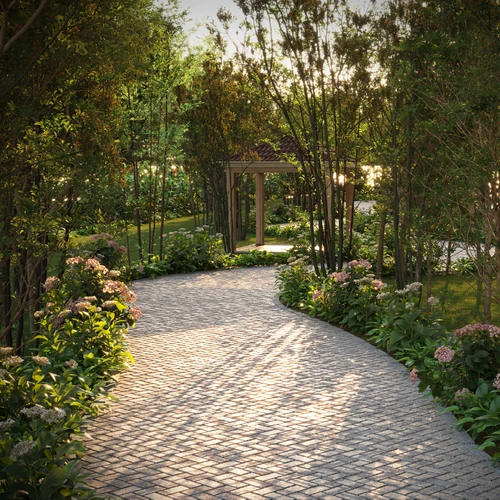
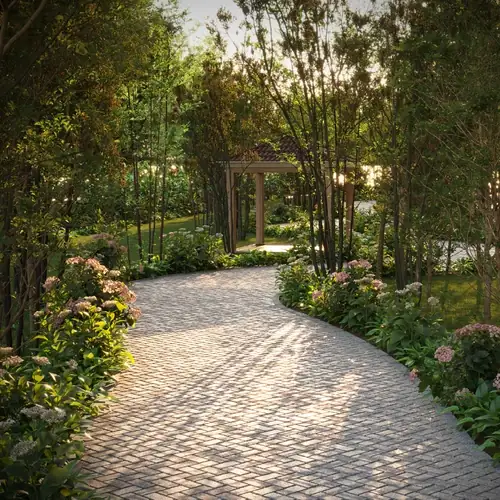
Optimise images and first-load weight
- Recompress the amenity/gallery photos, master plan and floor layouts
- Replace the PNG Sobha logos with smaller WebP versions
- Load the lighter master plan while it is locked; full size only after unlock
- Lazy-load the popup image and trim unused font weights
- Remove six images the page no longer references

Images folder: 2.9 MB -> 1.4 MB. First screen: about 245 KB across 7 files.

Claude-Session: https://claude.ai/code/session_01UZNGptRzZe7iGZ9XxCYRAP

diff --git a/index.html b/index.html
@@ -10,12 +10,12 @@
 <meta property="og:type" content="website">
 <meta property="og:title" content="SOBHA ParQ City, Bengaluru — 2 to 4 BHK Residences on 50 Acres">
 <meta property="og:description" content="A quest for discovery, a journey towards extraordinary living. Integrated township, 3,184 homes, 2 – 4 BHK, from ₹2.25 Cr*. EOI window open.">
-<meta property="og:image" content="assets/img/hero-1.webp">
+<meta property="og:image" content="assets/img/rep-club.webp">
 <meta name="twitter:card" content="summary_large_image">
 
 <link rel="preconnect" href="https://fonts.googleapis.com">
 <link rel="preconnect" href="https://fonts.gstatic.com" crossorigin>
-<link href="https://fonts.googleapis.com/css2?family=Figtree:wght@300;400;500;600;700&family=Source+Serif+4:ital,opsz,wght@0,8..60,400;0,8..60,500;0,8..60,600;1,8..60,400;1,8..60,500&display=swap" rel="stylesheet">
+<link href="https://fonts.googleapis.com/css2?family=Figtree:wght@300;400;500;600;700&family=Source+Serif+4:ital,opsz,wght@0,8..60,400;0,8..60,600;1,8..60,400&display=swap" rel="stylesheet">
 <link rel="preload" as="image" href="assets/img/rep-club.webp">
 <link rel="stylesheet" href="assets/css/styles.css">
 
@@ -80,7 +80,7 @@
 <header class="site-header" id="top">
   <div class="wrap header-inner">
     <a class="brand brand-lockup" href="#top" aria-label="Sobha, authorised channel partner, back to top">
-      <img class="brand-logo" src="assets/img/sobha-logo.png" width="1356" height="285" alt="Sobha">
+      <img class="brand-logo" src="assets/img/sobha-logo.webp" width="640" height="135" alt="Sobha">
       <span class="brand-sep" aria-hidden="true"></span>
       <span class="brand-cp">Authorized<br>Channel Partner</span>
     </a>
@@ -111,7 +111,7 @@
     <div class="hero-copy">
       <div class="hero-mark hero-lockup"><div class="pq-logo" role="img" aria-label="SOBHA ParQ City, Hennur, Bengaluru">
         <svg class="pq-arch" viewBox="0 0 120 66" aria-hidden="true"><g fill="none" stroke="currentColor" stroke-linecap="round" stroke-linejoin="round"><circle cx="60" cy="33" r="29" stroke-width="1.3"/><circle cx="60" cy="33" r="22" stroke-width=".7" opacity=".7"/><path d="M60 8l5 20 20 5-20 5-5 20-5-20-20-5 20-5z" stroke-width="1.2"/><path d="M60 0v6M60 60v6M27 33h-6M99 33h-6" stroke-width="1.2"/></g></svg>
-        <img class="pq-sobha" src="assets/img/sobha-logo-white.png" width="1356" height="285" alt="">
+        <img class="pq-sobha" src="assets/img/sobha-logo-white.webp" width="640" height="135" alt="">
         <div class="pq-name" aria-hidden="true"><span class="pq-rule"></span><span class="pq-word">PAR<i>Q</i><b>CITY</b></span><span class="pq-rule"></span></div>
         <span class="pq-loc" aria-hidden="true">Hennur · Bengaluru</span>
       </div></div>
@@ -138,7 +138,7 @@
 <section class="intro-band" id="intro" aria-labelledby="hero-title">
   <div class="wrap">
     <div class="intro-top">
-      <div class="intro-logo"><div class="sh-lockup on-light"><img src="assets/img/sobha-logo.png" width="1356" height="285" alt="Sobha"><span class="sh-loc">Hennur · Bengaluru</span></div></div>
+      <div class="intro-logo"><div class="sh-lockup on-light"><img src="assets/img/sobha-logo.webp" width="640" height="135" alt="Sobha"><span class="sh-loc">Hennur · Bengaluru</span></div></div>
       <div class="intro-text">
         <h1 id="hero-title">SOBHA ParQ City: 2 to 4 BHK Residences <em>in Hennur, Bengaluru</em></h1>
         <p class="intro-price">Homes from ₹2.25 Cr* <i aria-hidden="true">|</i> 1,250 – 2,800 Sq. Ft. <i aria-hidden="true">|</i> ₹18,000 per Sq. Ft. All-Inclusive</p>
@@ -278,7 +278,7 @@
   <div class="wrap">
     <h2 id="plans-title" class="display center">Master Plan &amp; Floor Plans</h2>
     <figure class="mp-fig">
-      <button class="js-plan is-locked" type="button" data-cta="plan_master" data-full="assets/img/master-plan.webp" data-caption="Master plan illustration · Not to scale" aria-label="Unlock Master Plan, opens the enquiry form"><img src="assets/img/master-plan.webp" width="1800" height="1115" loading="lazy" decoding="async" alt="SOBHA ParQ City master plan illustration showing residential blocks, landscaped courts and water features"><span class="fp-lock"><svg aria-hidden="true" width="20" height="20"><use href="#i-lock"/></svg>Unlock Master Plan</span></button>
+      <button class="js-plan is-locked" type="button" data-cta="plan_master" data-full="assets/img/master-plan.webp" data-caption="Master plan illustration · Not to scale" aria-label="Unlock Master Plan, opens the enquiry form"><img src="assets/img/master-plan-900.webp" width="900" height="557" loading="lazy" decoding="async" alt="SOBHA ParQ City master plan illustration showing residential blocks, landscaped courts and water features"><span class="fp-lock"><svg aria-hidden="true" width="20" height="20"><use href="#i-lock"/></svg>Unlock Master Plan</span></button>
       <figcaption><strong>Master Plan</strong><span>50 acres · 3,184 homes · landscaped courts, water features and play areas. Tap to unlock the full plan.</span></figcaption>
     </figure>
     <div class="plan-grid">
@@ -333,7 +333,7 @@
 <!-- ============ ABOUT DEVELOPER ============ -->
 <section class="section about" id="about" aria-label="About Sobha">
   <div class="wrap about-grid">
-    <div class="about-logo"><img class="about-plogo" src="assets/img/sobha-logo.png" width="1356" height="285" alt="Sobha" loading="lazy" decoding="async"><p><strong>Sobha Limited</strong> · Hennur, Bengaluru</p></div>
+    <div class="about-logo"><img class="about-plogo" src="assets/img/sobha-logo.webp" width="640" height="135" alt="Sobha" loading="lazy" decoding="async"><p><strong>Sobha Limited</strong> · Hennur, Bengaluru</p></div>
     <div class="about-text">
       <p>SOBHA ParQ City is envisioned as a large-scale, integrated township. The &ldquo;Q&rdquo; in ParQ stands for Quest, a journey of discovery: a harmonious balance between modern urban living and nature, offering more than just a home, an enriching lifestyle for every generation.</p>
       <p>Sobha is known for quality construction, meticulous finishing and attention to detail. That standard now arrives in Hennur.</p>
@@ -386,7 +386,7 @@
 <!-- ============ FOOTER ============ -->
 <footer class="site-footer">
   <div class="wrap foot-grid">
-    <img class="foot-mark foot-plogo" src="assets/img/sobha-logo.png" width="1356" height="285" alt="Sobha" loading="lazy" decoding="async">
+    <img class="foot-mark foot-plogo" src="assets/img/sobha-logo.webp" width="640" height="135" alt="Sobha" loading="lazy" decoding="async">
     <div class="foot-text">
       <p class="disclaimer"><strong>Disclaimer :</strong> This is not the official website of the developer &amp; property; it belongs to an authorised channel partner, Buildnest Realty Pvt Ltd (Agent RERA: PRM/KA/RERA/1251/446/AG/210729/002406), for information purposes only. All rights for logos &amp; images are reserved to the developer. Prices are indicative and subject to change without prior notice; *indicative price = SBA × the all-inclusive rate shown; SBA is super built-up area. Images are for representation purposes only; plans and specifications are illustrative and may vary. The number of units is indicative and subject to change as per approved plans. Terms and conditions apply. By using or accessing this website you agree with the Disclaimer without any qualification or limitation. Information you submit is used only to respond to your enquiry about SOBHA ParQ City.</p>
       <p class="disclaimer">Project RERA registration details will be published here once issued · www.rera.karnataka.gov.in · SOBHA ParQ City, Hennur, Bengaluru, Karnataka.</p>
@@ -414,9 +414,9 @@
   <button class="modal-close" type="button" aria-label="Close" data-close><svg aria-hidden="true" width="18" height="18"><use href="#i-close"/></svg></button>
   <div class="modal-grid">
     <aside class="modal-offer">
-      <img class="modal-photo" src="assets/img/rep-club.webp" width="500" height="500" alt="" decoding="async">
+      <img class="modal-photo" src="assets/img/rep-club.webp" width="500" height="500" alt="" loading="lazy" decoding="async">
       <div class="modal-offer-inner">
-        <div class="modal-lockup"><div class="sh-lockup"><img src="assets/img/sobha-logo-white.png" width="1356" height="285" alt="Sobha"><span class="sh-loc">Hennur · Bengaluru</span></div></div>
+        <div class="modal-lockup"><div class="sh-lockup"><img src="assets/img/sobha-logo-white.webp" width="640" height="135" alt="Sobha"><span class="sh-loc">Hennur · Bengaluru</span></div></div>
         <p class="modal-eyebrow">2 – 4 BHK · Hennur, Bengaluru</p>
         <h3>A destination to discover, connect and thrive.</h3>
         <ul class="modal-perks">

diff --git a/thank-you.html b/thank-you.html
@@ -9,7 +9,7 @@
 <link rel="icon" type="image/svg+xml" href="assets/img/icon.svg">
 <link rel="preconnect" href="https://fonts.googleapis.com">
 <link rel="preconnect" href="https://fonts.gstatic.com" crossorigin>
-<link href="https://fonts.googleapis.com/css2?family=Figtree:wght@300;400;500;600;700&family=Source+Serif+4:ital,opsz,wght@0,8..60,400;0,8..60,500;0,8..60,600;1,8..60,400;1,8..60,500&display=swap" rel="stylesheet">
+<link href="https://fonts.googleapis.com/css2?family=Figtree:wght@300;400;500;600;700&family=Source+Serif+4:ital,opsz,wght@0,8..60,400;0,8..60,600;1,8..60,400&display=swap" rel="stylesheet">
 <link rel="stylesheet" href="assets/css/styles.css">
 <script src="assets/js/config.js"></script>
 <script>
@@ -39,7 +39,7 @@
 <header class="site-header" id="top">
   <div class="wrap header-inner">
     <a class="brand brand-lockup" href="index.html" aria-label="Sobha, authorised channel partner, back to the SOBHA ParQ City page">
-      <img class="brand-logo" src="assets/img/sobha-logo.png" width="1356" height="285" alt="Sobha">
+      <img class="brand-logo" src="assets/img/sobha-logo.webp" width="640" height="135" alt="Sobha">
       <span class="brand-sep" aria-hidden="true"></span>
       <span class="brand-cp">Authorized<br>Channel Partner</span>
     </a>
